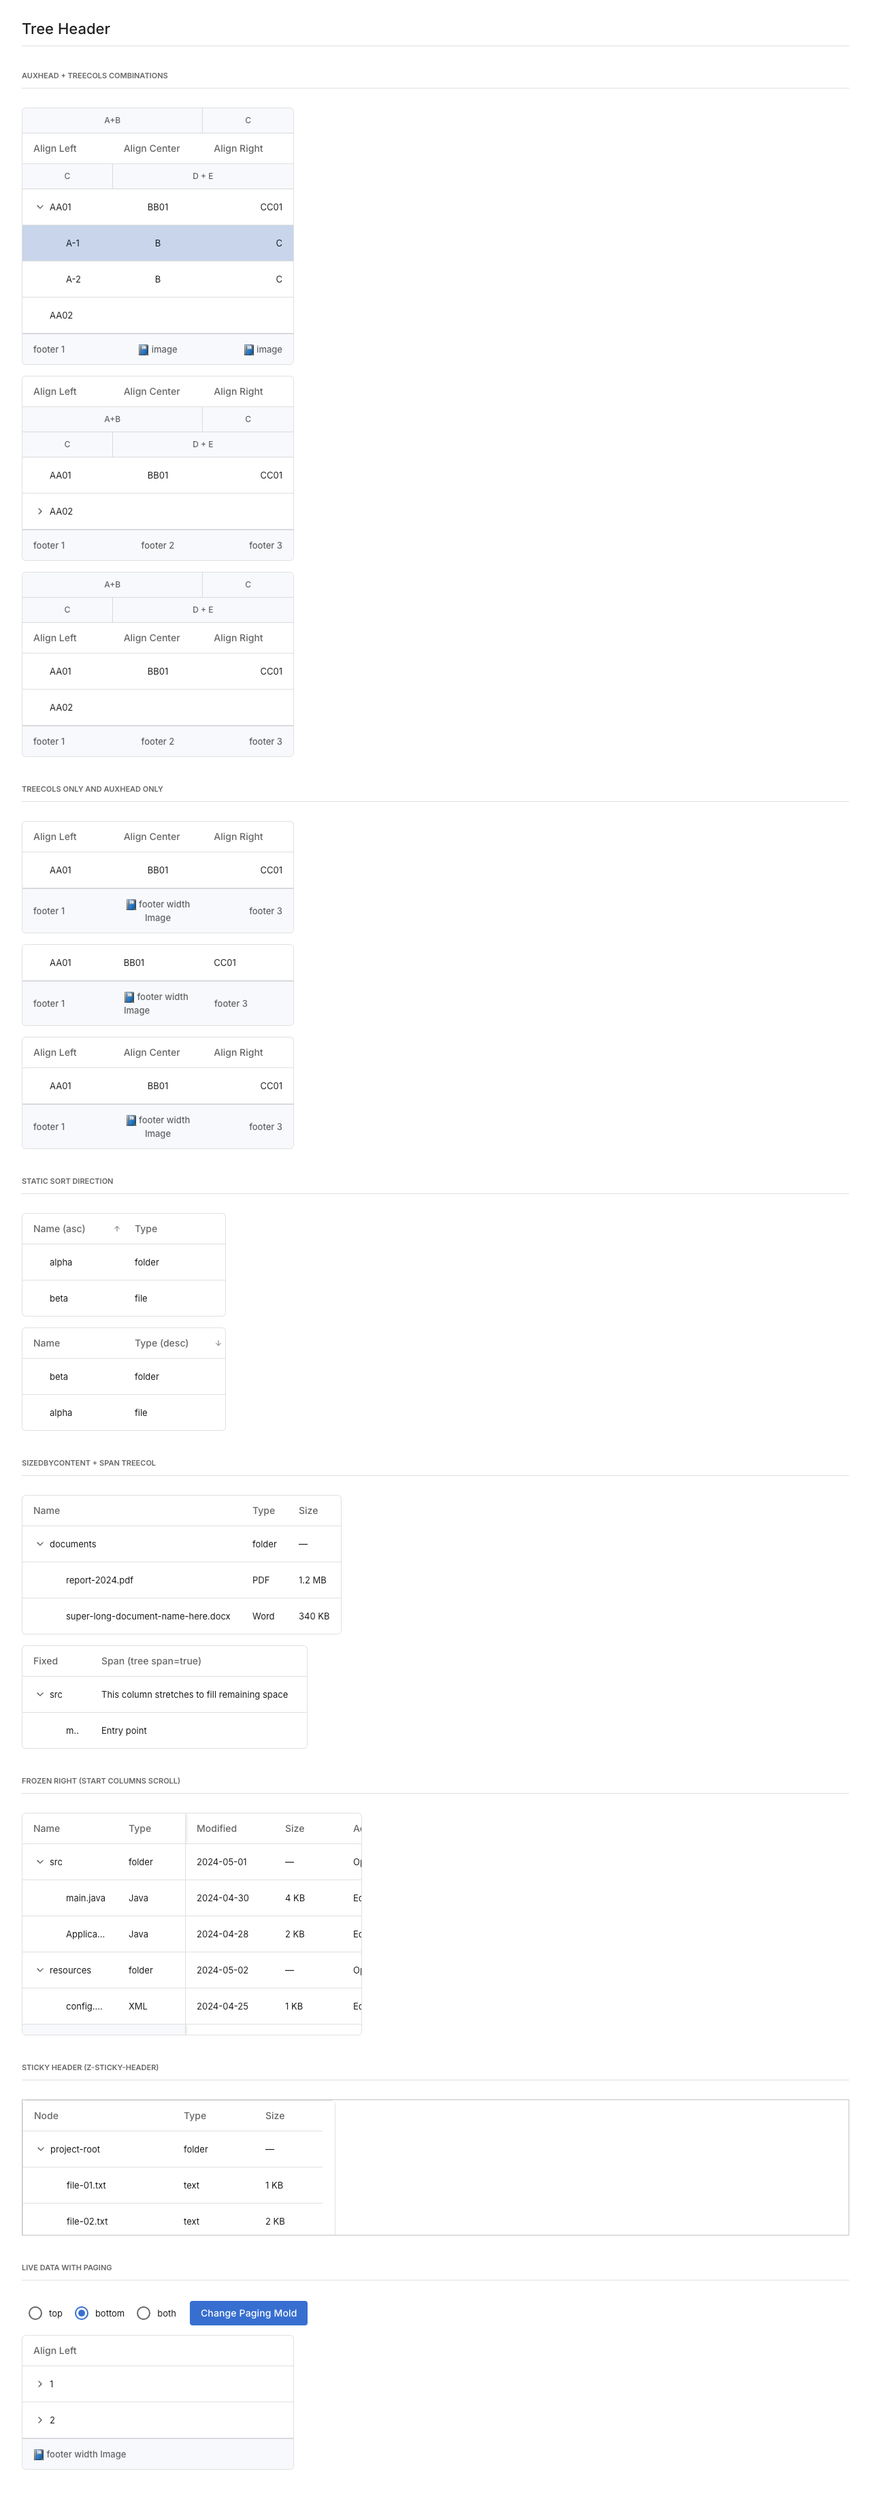
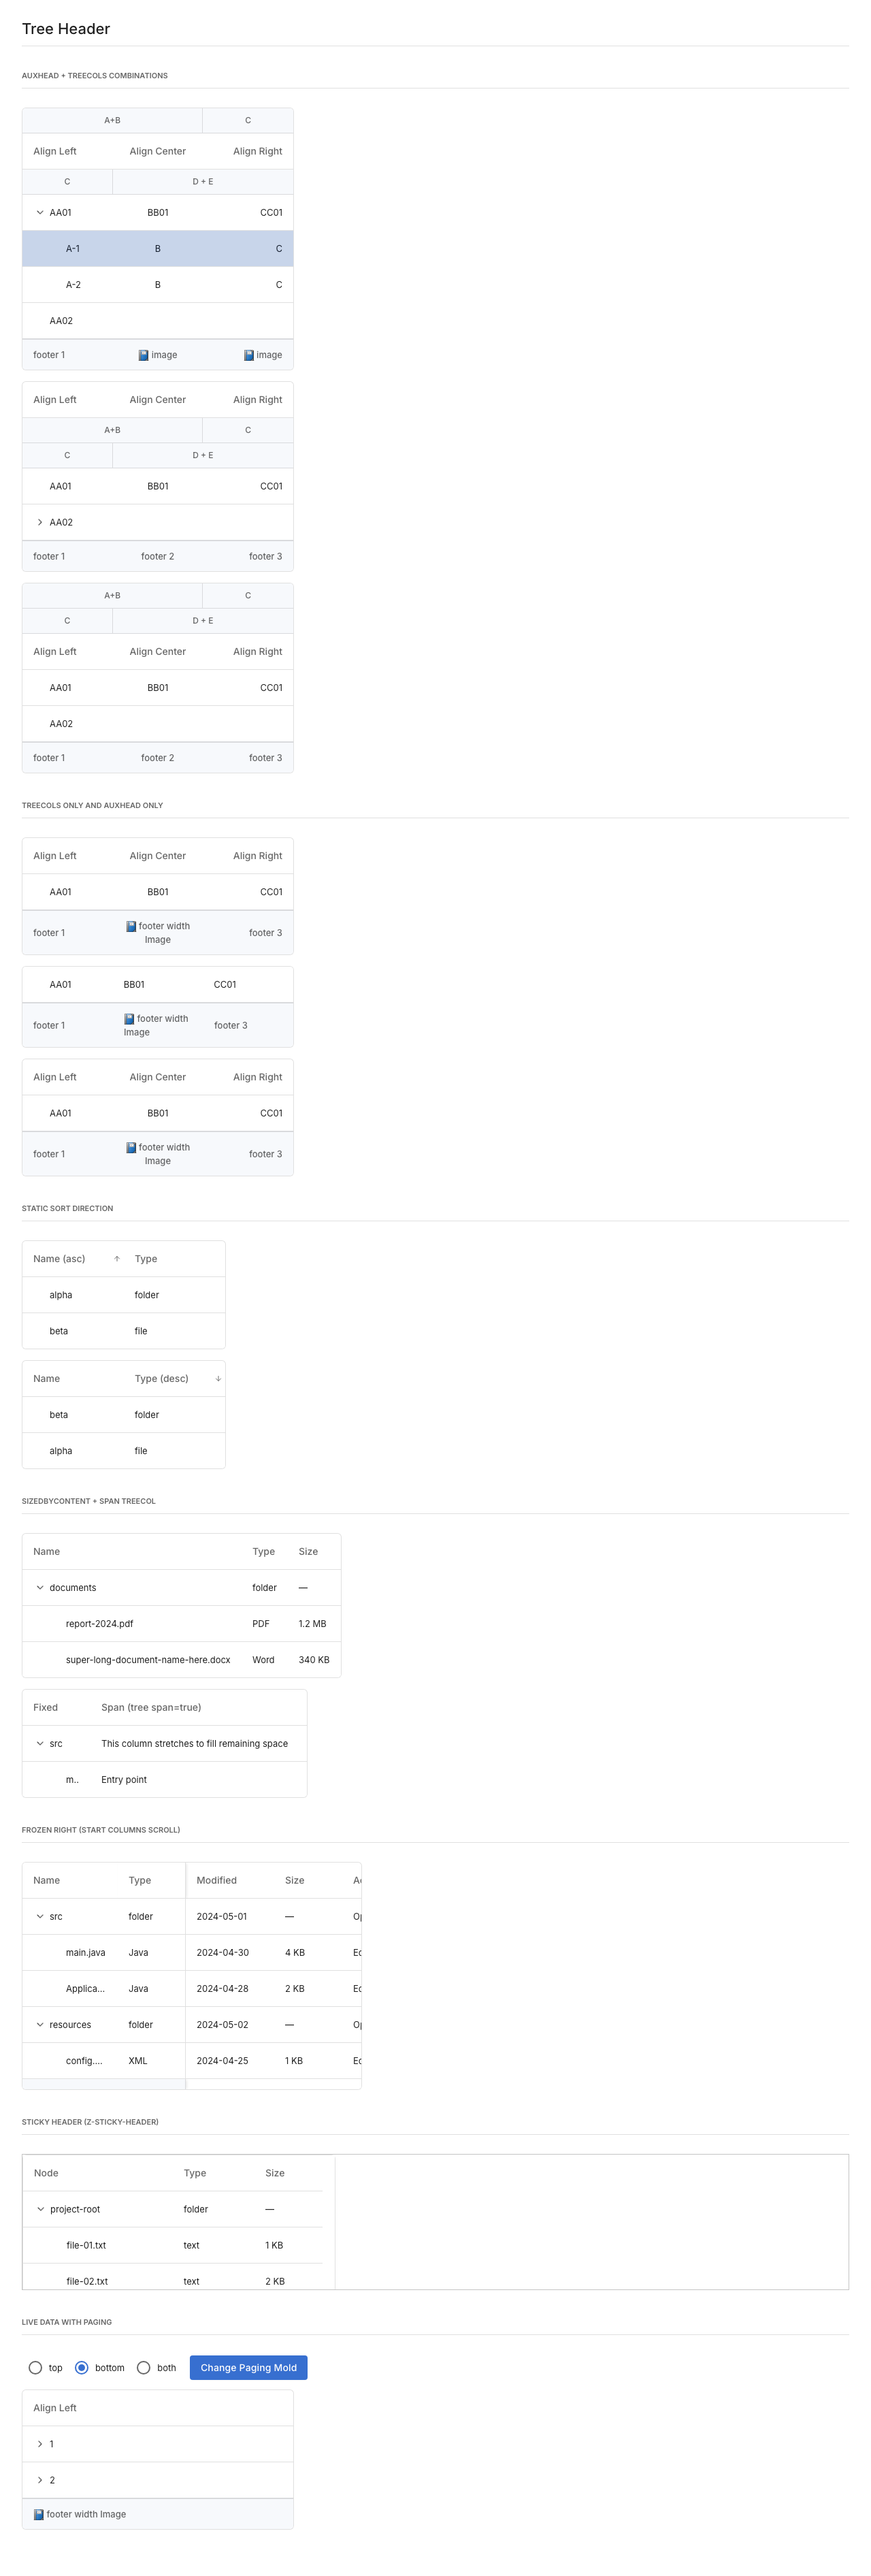
ZK-6112: size the tree header with a density-aware token so it matches grid and listbox (zkdemo NS10 D17)

diff --git a/zkpreview/src/test/playwright/mesh-header-footer.spec.ts b/zkpreview/src/test/playwright/mesh-header-footer.spec.ts
@@ -21,6 +21,8 @@ import { test, expect, Page } from '@playwright/test';
 //    overflow vertically) on the font-size of the header, so zkmax cannot size the glyph box of the span;
 //  - a select-all header that also holds the sort arrow and/or the column-menu button keeps its label box
 //    clear of them (D11 follow-through);
+//  - a Tree header is as tall as the Grid header with the same labels in default, compact and tablet density,
+//    and on a tablet the data rows are as tall as well (D17);
 //  - footer text starts where the body text of the same column starts (`border-spacing: 2px` of the UA
 //    table shifted Grid and Listbox footers right).
 // Fixture: web/pv/mesh-header-footer-guard.zul
@@ -221,6 +223,31 @@ function registerSelectAllHeaderClearsArrowAndButton({ guardButtonGap }: { guard
   }
 }
 
+const SUB_PIXEL_PX = 0.01;
+
+const boxHeight = (page: Page, selector: string) => page.locator(selector).first()
+  .evaluate((el) => el.getBoundingClientRect().height);
+
+// Tree and Grid with the same labels: both header rows must come out at the same height.
+function registerTreeHeaderMatchesGrid() {
+  const compare = async (page: Page) => {
+    const tree = await boxHeight(page, '.mhf-tree-vs-grid th.z-treecol');
+    const grid = await boxHeight(page, '.mhf-grid-vs-tree th.z-column');
+    expect(Math.abs(tree - grid), `tree header ${tree}, grid header ${grid}`).toBeLessThanOrEqual(SUB_PIXEL_PX);
+  };
+
+  test('.mhf-tree-vs-grid: the tree header is as tall as the grid header', async ({ page }) => {
+    await open(page);
+    await compare(page);
+  });
+
+  test('.mhf-tree-vs-grid: the tree header is as tall as the grid header in compact density', async ({ page }) => {
+    await open(page);
+    await page.evaluate(() => document.documentElement.setAttribute('data-density', 'compact'));
+    await compare(page);
+  });
+}
+
 const sortedHeader = (mesh: Mesh) => `${mesh.root} ${mesh.header}:nth-child(${SORTED_COLUMN})`;
 
 test.describe('mesh header and footer', () => {
@@ -360,6 +387,7 @@ test.describe('mesh header and footer', () => {
   registerSelectAllHeaderVersusGrid();
   registerSelectAllBoxIsNotClipped();
   registerSelectAllHeaderClearsArrowAndButton({ guardButtonGap: true });
+  registerTreeHeaderMatchesGrid();
 
   // Tagged @tablet: the `mesh-header-footer` project skips it, `mesh-header-footer-tablet` runs only it.
   test.describe('select-all header on a tablet @tablet', () => {
@@ -386,6 +414,14 @@ test.describe('mesh header and footer', () => {
     registerSelectAllHeaderVersusGrid();
     registerSelectAllBoxIsNotClipped();
     registerSelectAllHeaderClearsArrowAndButton({ guardButtonGap: false });
+    registerTreeHeaderMatchesGrid();
+
+    test('.mhf-tree-vs-grid: the tree data row is as tall as the grid data row', async ({ page }) => {
+      await open(page);
+      const tree = await boxHeight(page, '.mhf-tree-vs-grid tr.z-treerow');
+      const grid = await boxHeight(page, '.mhf-grid-vs-tree tr.z-row');
+      expect(Math.abs(tree - grid), `tree row ${tree}, grid row ${grid}`).toBeLessThanOrEqual(SUB_PIXEL_PX);
+    });
 
     test('.mhf-listbox-select-all-centre: the centred box lines up with the row checkbox', async ({ page }) => {
       await open(page);

diff --git a/zul/src/main/resources/web/zul/css/tokens/_sizing.css b/zul/src/main/resources/web/zul/css/tokens/_sizing.css
@@ -70,6 +70,7 @@
     --zk-grid-detail-padding:    var(--zk-spacing-3);          /* 12: pads grid detail content top/right/bottom; left follows --zk-grid-cell-padding */
     --zk-listbox-cell-padding:   var(--zk-spacing-4);          /* 16 all sides */
     --zk-tree-cell-padding:      var(--zk-spacing-2) var(--zk-spacing-4);  /* 8 / 16 */
+    --zk-tree-header-padding:    var(--zk-spacing-4);          /* 16 all sides: same header height as grid/listbox */
 }
 
 /* ── Compact density — scope-independent knob ───────────────────────────────
@@ -121,4 +122,5 @@
     --zk-grid-detail-padding: 6px;
     --zk-listbox-cell-padding: 6px 12px;
     --zk-tree-cell-padding: 4px 12px;
+    --zk-tree-header-padding: 6px 12px;
 }

diff --git a/zul/src/main/resources/web/js/zul/sel/css/tree.css b/zul/src/main/resources/web/js/zul/sel/css/tree.css
@@ -65,7 +65,7 @@
 }
 
 .z-treecol {
-    padding: var(--zk-spacing-3) var(--zk-spacing-4);
+    padding: var(--zk-tree-header-padding);
     font-size: var(--zk-typescale-label-large-size);
     font-weight: var(--zk-typescale-label-large-weight);
     color: var(--zk-tree-header-fg);

diff --git a/.claude/skills/marble-theme/reference/density.md b/.claude/skills/marble-theme/reference/density.md
@@ -53,7 +53,7 @@ A normal customer flips only the 5 rungs plus 3 off-ladder seeds (button 36/44, 
 alias follows automatically.
 
 **Layer 3 — data-cell padding:** `--zk-grid-cell-padding`, `--zk-grid-detail-padding`, `--zk-listbox-cell-padding`,
-`--zk-tree-cell-padding`. **All four must be declared at `:root`**, not on the component —
+`--zk-tree-cell-padding`, `--zk-tree-header-padding`. **All five must be declared at `:root`**, not on the component —
 see the cascade-shadowing trap in `reference/tokens.md`.
 
 ## The switch

diff --git a/doc/spec/data-dense-mode.md b/doc/spec/data-dense-mode.md
@@ -101,6 +101,7 @@ than the shipped rule, so it wins regardless of load order — and set any token
 | `--zk-grid-detail-padding` | 12px | 6px | grid detail content (top/right/bottom) |
 | `--zk-listbox-cell-padding` | 16px | 6px 12px | listbox cells |
 | `--zk-tree-cell-padding` | 8px / 16px | 4px 12px | tree cells |
+| `--zk-tree-header-padding` | 16px | 6px 12px | tree header cells (same header height as grid/listbox) |
 
 ### Finer control
 

diff --git a/doc/spec/component-theme-variables.md b/doc/spec/component-theme-variables.md
@@ -281,6 +281,7 @@ Same as listbox, minus striping (`.z-tree` / `.z-treerow` / `.z-treecol`).
 | `--zk-tree-selected-bg` | `var(--zk-color-secondary-container)` |
 | `--zk-tree-selected-fg` | `var(--zk-color-on-secondary-container)` |
 | `--zk-tree-cell-padding` (size — in `_sizing.css`) | `var(--zk-spacing-2) var(--zk-spacing-4)` |
+| `--zk-tree-header-padding` (size — in `_sizing.css`) | `var(--zk-spacing-4)` |
 
 ### Panel — shipped
 
